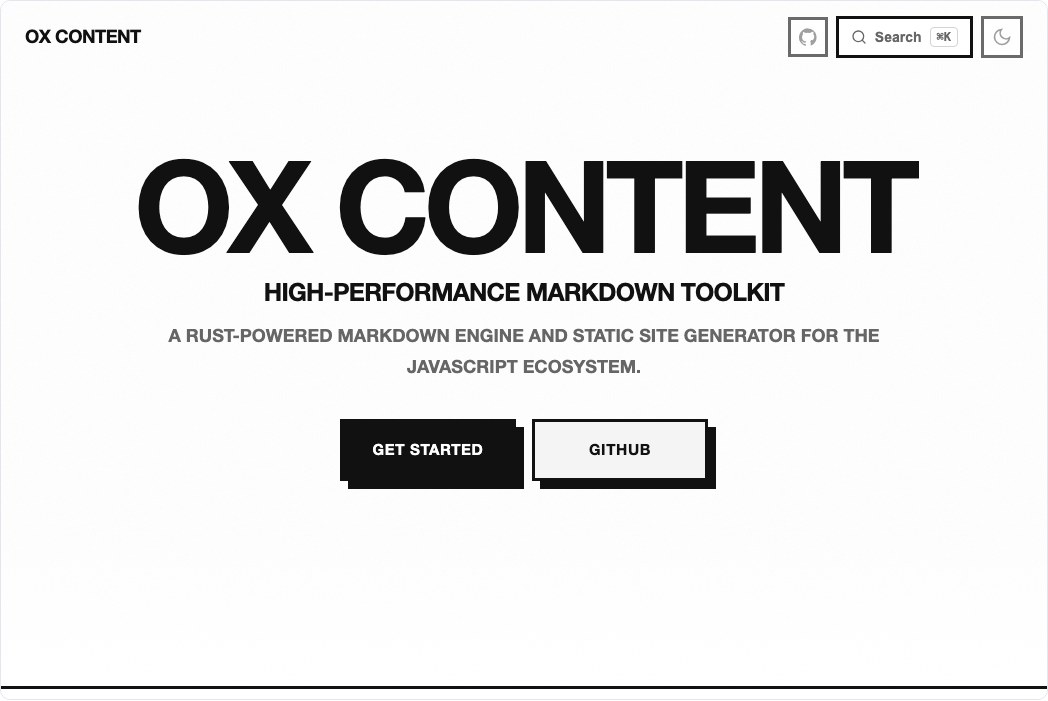
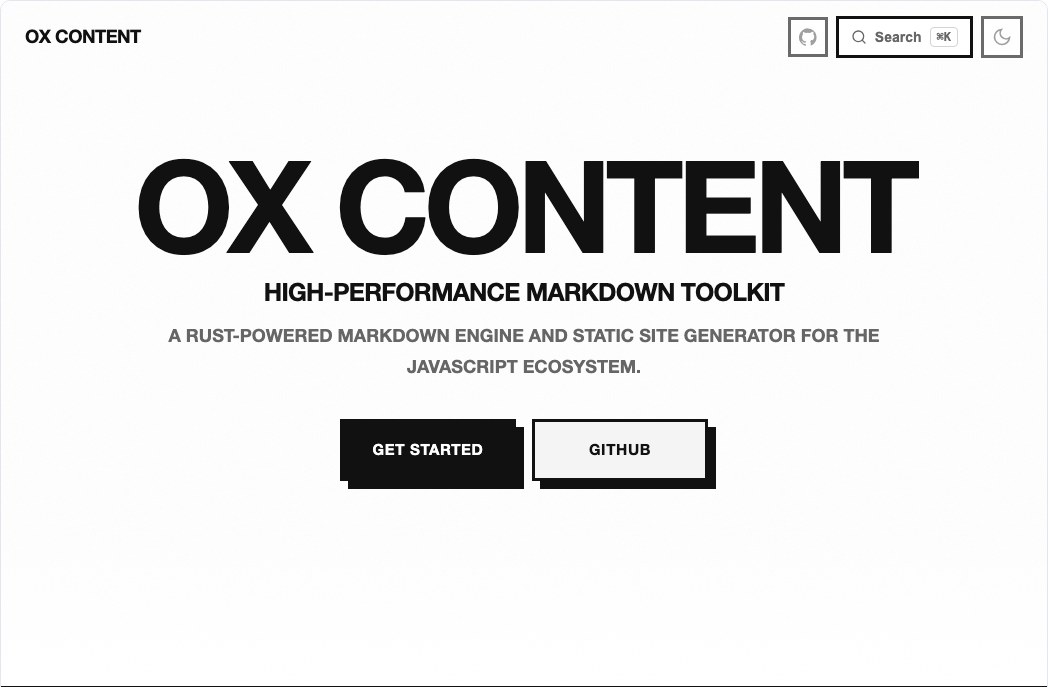
fix(themes): make Liquid Glass the iOS material, and stop the screenshots cropping mid-section
The skin was glassmorphism wearing the name: a wide tinted pane with a blur
behind it. What the iOS material actually does is float *small* controls over
content and bend what passes beneath them at the rim.

- The header is a compact capsule the article passes under, not a full-width
  bar. A pane that spans the frame is a page header wearing a blur.
- The tint drops from 62% to 26% and the blur from 20px to 12px. A heavy fill
  is what turns glass into frosted plastic, and it is the whole difference
  between this and glassmorphism.

Screenshots now clip to the hero's own bottom edge. Shooting the whole frame
left a sliver of the next section along the bottom, which reads as a cropping
accident rather than a composition.

Also fixes the gallery, which the formatter had broken: it stripped the
backslash out of an escaped `</script>`, and the resulting literal tag closed
the script the template lived in, so the page rendered blank. The terminator is
now assembled rather than written literally.

diff --git a/npm/theme/liquid-glass/src/skin.ts b/npm/theme/liquid-glass/src/skin.ts
@@ -16,9 +16,9 @@ export const css = `@property --octc-sweep{syntax:"<percentage>";inherits:false;
 42% 36% at 88% 16%,color-mix(in srgb,var(--octc-accent-c,var(--octc-color-primary)) 40%,transparent),transparent 74%
 ),radial-gradient(
 54% 44% at 68% 88%,color-mix(in srgb,var(--octc-accent-b,var(--octc-color-primary)) 34%,transparent),transparent 76%
-);--octc-lg-rim:12px;--octc-lg-tint:color-mix(in srgb,var(--octc-color-bg-alt) 62%,transparent);--octc-lg-rim-filter:blur(3px) brightness(0.96) saturate(1.9);--octc-lg-spec-hi:rgba(255,255,255,0.5);--octc-lg-spec-lo:rgba(255,255,255,0.24);--octc-lg-underlight:rgba(0,0,0,0.16)}[data-theme="dark"]{--octc-lg-tint:color-mix(in srgb,var(--octc-color-bg) 42%,transparent);--octc-lg-rim-filter:blur(3px) brightness(1.22) saturate(2.1);--octc-lg-spec-hi:rgba(255,255,255,0.34);--octc-lg-spec-lo:rgba(255,255,255,0.08);--octc-lg-underlight:rgba(0,0,0,0.5)}@media (prefers-color-scheme:dark){:root:not([data-theme="light"]){--octc-lg-tint:color-mix(in srgb,var(--octc-color-bg) 42%,transparent);--octc-lg-rim-filter:blur(3px) brightness(1.22) saturate(2.1);--octc-lg-spec-hi:rgba(255,255,255,0.34);--octc-lg-spec-lo:rgba(255,255,255,0.08);--octc-lg-underlight:rgba(0,0,0,0.5)}}body{background-image:var(--octc-lg-wallpaper);background-attachment:fixed;background-repeat:no-repeat}.header,.search-modal,.feature-card,.hero-notice,.hero-action,.search-button,.theme-toggle,.social-link,.nav-link.active,.content blockquote{position:relative;isolation:isolate;border:0;background:var(--octc-lg-tint);backdrop-filter:blur(20px) saturate(180%);-webkit-backdrop-filter:blur(20px) saturate(180%);box-shadow:0 10px 30px -14px var(--octc-lg-underlight)}.header::before,.sidebar::before,.search-modal::before,.feature-card::before,.hero-action::before,.search-button::before,.theme-toggle::before,.social-link::before,.nav-link.active::before{content:"";position:absolute;inset:0;z-index:-1;border-radius:inherit;pointer-events:none;padding:var(--octc-lg-rim);backdrop-filter:var(--octc-lg-rim-filter);-webkit-backdrop-filter:var(--octc-lg-rim-filter);-webkit-mask:linear-gradient(#000 0 0) content-box,linear-gradient(#000 0 0);mask:linear-gradient(#000 0 0) content-box,linear-gradient(#000 0 0);-webkit-mask-composite:xor;mask-composite:exclude}.header::after,.sidebar::after,.search-modal::after,.feature-card::after,.hero-action::after,.search-button::after,.theme-toggle::after,.social-link::after,.nav-link.active::after{content:"";position:absolute;inset:0;border-radius:inherit;pointer-events:none;padding:1px;background:linear-gradient(
+);--octc-lg-rim:12px;--octc-lg-tint:color-mix(in srgb,var(--octc-color-bg-alt) 26%,transparent);--octc-lg-rim-filter:blur(3px) brightness(0.96) saturate(1.9);--octc-lg-spec-hi:rgba(255,255,255,0.5);--octc-lg-spec-lo:rgba(255,255,255,0.24);--octc-lg-underlight:rgba(0,0,0,0.16)}[data-theme="dark"]{--octc-lg-tint:color-mix(in srgb,var(--octc-color-bg) 24%,transparent);--octc-lg-rim-filter:blur(3px) brightness(1.22) saturate(2.1);--octc-lg-spec-hi:rgba(255,255,255,0.34);--octc-lg-spec-lo:rgba(255,255,255,0.08);--octc-lg-underlight:rgba(0,0,0,0.5)}@media (prefers-color-scheme:dark){:root:not([data-theme="light"]){--octc-lg-tint:color-mix(in srgb,var(--octc-color-bg) 24%,transparent);--octc-lg-rim-filter:blur(3px) brightness(1.22) saturate(2.1);--octc-lg-spec-hi:rgba(255,255,255,0.34);--octc-lg-spec-lo:rgba(255,255,255,0.08);--octc-lg-underlight:rgba(0,0,0,0.5)}}body{background-image:var(--octc-lg-wallpaper);background-attachment:fixed;background-repeat:no-repeat}.header,.search-modal,.feature-card,.hero-notice,.hero-action,.search-button,.theme-toggle,.social-link,.nav-link.active,.content blockquote{position:relative;isolation:isolate;border:0;background:var(--octc-lg-tint);backdrop-filter:blur(12px) saturate(200%);-webkit-backdrop-filter:blur(12px) saturate(200%);box-shadow:0 10px 30px -14px var(--octc-lg-underlight)}.header::before,.sidebar::before,.search-modal::before,.feature-card::before,.hero-action::before,.search-button::before,.theme-toggle::before,.social-link::before,.nav-link.active::before{content:"";position:absolute;inset:0;z-index:-1;border-radius:inherit;pointer-events:none;padding:var(--octc-lg-rim);backdrop-filter:var(--octc-lg-rim-filter);-webkit-backdrop-filter:var(--octc-lg-rim-filter);-webkit-mask:linear-gradient(#000 0 0) content-box,linear-gradient(#000 0 0);mask:linear-gradient(#000 0 0) content-box,linear-gradient(#000 0 0);-webkit-mask-composite:xor;mask-composite:exclude}.header::after,.sidebar::after,.search-modal::after,.feature-card::after,.hero-action::after,.search-button::after,.theme-toggle::after,.social-link::after,.nav-link.active::after{content:"";position:absolute;inset:0;border-radius:inherit;pointer-events:none;padding:1px;background:linear-gradient(
 145deg,var(--octc-lg-spec-hi) 0%,transparent 28%,transparent 68%,var(--octc-lg-spec-lo) 100%
-);-webkit-mask:linear-gradient(#000 0 0) content-box,linear-gradient(#000 0 0);mask:linear-gradient(#000 0 0) content-box,linear-gradient(#000 0 0);-webkit-mask-composite:xor;mask-composite:exclude}.hero-action,.search-button,.theme-toggle,.social-link,.mobile-footer-btn,.search-input,.nav-link,.toc-link{border-radius:999px}.feature-card,.hero-notice,.content pre,.content blockquote,.content img,.content table{border-radius:var(--octc-lg-r)}.search-modal{border-radius:calc(var(--octc-lg-r) + 6px)}.header{--octc-lg-rim:10px;top:0.7rem;left:50%;right:auto;transform:translateX(-50%);width:min(calc(100% - 1.4rem),1180px);border-radius:999px;padding-inline:1rem;height:calc(var(--octc-header-height) - 0.7rem)}.layout{padding-top:calc(var(--octc-header-height) + 0.7rem)}.header-title{font-weight:620;letter-spacing:-0.015em}.search-button,.theme-toggle,.social-link{--octc-lg-rim:7px}.nav-link.active{--octc-lg-rim:8px}.sidebar{--octc-skin-sidebar-bg:var(--octc-lg-tint);--octc-lg-rim:10px;position:fixed;top:calc(var(--octc-header-height) + 1.1rem);bottom:1.1rem;left:0.9rem;width:calc(var(--octc-sidebar-width) - 1.2rem);border-radius:var(--octc-lg-r);border:0;padding:1rem 0.75rem;background:var(--octc-lg-tint);backdrop-filter:blur(20px) saturate(180%);-webkit-backdrop-filter:blur(20px) saturate(180%);box-shadow:0 10px 30px -14px var(--octc-lg-underlight)}.toc{border-left:0}.nav-title,.toc-title{font-size:0.7rem;letter-spacing:0.11em;text-transform:uppercase;opacity:0.62}.nav-link:not(.active):hover,.toc-link:hover{background:color-mix(in srgb,var(--octc-color-primary) 10%,transparent)}.nav-link.active{font-weight:620}.content h2{border-bottom:1px solid color-mix(in srgb,var(--octc-color-border) 32%,transparent)}.content :not(pre)>code{border-radius:8px;background:color-mix(in srgb,var(--octc-color-primary) 11%,transparent);padding:0.1em 0.42em}.content pre{border:0;box-shadow:0 14px 36px -20px var(--octc-lg-underlight)}.content blockquote{--octc-lg-rim:10px}.content table{overflow:hidden}.content th,.content td{border-color:color-mix(in srgb,var(--octc-color-border) 26%,transparent)}.content hr{height:1px;border:0;background:color-mix(in srgb,var(--octc-color-border) 45%,transparent)}.hero{background-image:radial-gradient(
+);-webkit-mask:linear-gradient(#000 0 0) content-box,linear-gradient(#000 0 0);mask:linear-gradient(#000 0 0) content-box,linear-gradient(#000 0 0);-webkit-mask-composite:xor;mask-composite:exclude}.hero-action,.search-button,.theme-toggle,.social-link,.mobile-footer-btn,.search-input,.nav-link,.toc-link{border-radius:999px}.feature-card,.hero-notice,.content pre,.content blockquote,.content img,.content table{border-radius:var(--octc-lg-r)}.search-modal{border-radius:calc(var(--octc-lg-r) + 6px)}.header{--octc-lg-rim:8px;top:0.85rem;left:50%;right:auto;transform:translateX(-50%);width:max-content;max-width:calc(100% - 1.6rem);gap:1.25rem;border-radius:999px;padding-inline:1.15rem;height:calc(var(--octc-header-height) - 1.4rem)}.layout{padding-top:calc(var(--octc-header-height) + 0.7rem)}.header-title{font-weight:620;letter-spacing:-0.015em}.search-button,.theme-toggle,.social-link{--octc-lg-rim:7px}.nav-link.active{--octc-lg-rim:8px}.sidebar{--octc-skin-sidebar-bg:var(--octc-lg-tint);--octc-lg-rim:10px;position:fixed;top:calc(var(--octc-header-height) + 1.1rem);bottom:1.1rem;left:0.9rem;width:calc(var(--octc-sidebar-width) - 1.2rem);border-radius:var(--octc-lg-r);border:0;padding:1rem 0.75rem;background:var(--octc-lg-tint);backdrop-filter:blur(20px) saturate(180%);-webkit-backdrop-filter:blur(20px) saturate(180%);box-shadow:0 10px 30px -14px var(--octc-lg-underlight)}.toc{border-left:0}.nav-title,.toc-title{font-size:0.7rem;letter-spacing:0.11em;text-transform:uppercase;opacity:0.62}.nav-link:not(.active):hover,.toc-link:hover{background:color-mix(in srgb,var(--octc-color-primary) 10%,transparent)}.nav-link.active{font-weight:620}.content h2{border-bottom:1px solid color-mix(in srgb,var(--octc-color-border) 32%,transparent)}.content :not(pre)>code{border-radius:8px;background:color-mix(in srgb,var(--octc-color-primary) 11%,transparent);padding:0.1em 0.42em}.content pre{border:0;box-shadow:0 14px 36px -20px var(--octc-lg-underlight)}.content blockquote{--octc-lg-rim:10px}.content table{overflow:hidden}.content th,.content td{border-color:color-mix(in srgb,var(--octc-color-border) 26%,transparent)}.content hr{height:1px;border:0;background:color-mix(in srgb,var(--octc-color-border) 45%,transparent)}.hero{background-image:radial-gradient(
 46% 40% at 16% 12%,color-mix(in srgb,var(--octc-accent-a,var(--octc-color-primary)) 62%,transparent),transparent 70%
 ),radial-gradient(
 42% 38% at 84% 22%,color-mix(in srgb,var(--octc-accent-c,var(--octc-color-primary)) 54%,transparent),transparent 72%

diff --git a/scripts/theme-skins/skins/liquid-glass/01-material.css b/scripts/theme-skins/skins/liquid-glass/01-material.css
@@ -43,7 +43,10 @@
   --octc-lg-rim: 12px;
   /* Toward bg-alt, not bg: on a white page a pane tinted with white is
    * invisible, and every surface collapses into one blown-out field. */
-  --octc-lg-tint: color-mix(in srgb, var(--octc-color-bg-alt) 62%, transparent);
+  /* Thin. The material's job is to let content through and bend it at the rim;
+   * a heavy fill turns it into frosted plastic, which is the whole difference
+   * between this and glassmorphism. */
+  --octc-lg-tint: color-mix(in srgb, var(--octc-color-bg-alt) 26%, transparent);
   --octc-lg-rim-filter: blur(3px) brightness(0.96) saturate(1.9);
   --octc-lg-spec-hi: rgba(255, 255, 255, 0.5);
   --octc-lg-spec-lo: rgba(255, 255, 255, 0.24);
@@ -51,7 +54,7 @@
 }
 
 [data-theme="dark"] {
-  --octc-lg-tint: color-mix(in srgb, var(--octc-color-bg) 42%, transparent);
+  --octc-lg-tint: color-mix(in srgb, var(--octc-color-bg) 24%, transparent);
   /* In the dark the rim does brighten — there the backdrop is below it. */
   --octc-lg-rim-filter: blur(3px) brightness(1.22) saturate(2.1);
   --octc-lg-spec-hi: rgba(255, 255, 255, 0.34);
@@ -61,7 +64,7 @@
 
 @media (prefers-color-scheme: dark) {
   :root:not([data-theme="light"]) {
-    --octc-lg-tint: color-mix(in srgb, var(--octc-color-bg) 42%, transparent);
+    --octc-lg-tint: color-mix(in srgb, var(--octc-color-bg) 24%, transparent);
     --octc-lg-rim-filter: blur(3px) brightness(1.22) saturate(2.1);
     --octc-lg-spec-hi: rgba(255, 255, 255, 0.34);
     --octc-lg-spec-lo: rgba(255, 255, 255, 0.08);
@@ -91,8 +94,8 @@ body {
   isolation: isolate;
   border: 0;
   background: var(--octc-lg-tint);
-  backdrop-filter: blur(20px) saturate(180%);
-  -webkit-backdrop-filter: blur(20px) saturate(180%);
+  backdrop-filter: blur(12px) saturate(200%);
+  -webkit-backdrop-filter: blur(12px) saturate(200%);
   box-shadow: 0 10px 30px -14px var(--octc-lg-underlight);
 }
 

diff --git a/scripts/theme-gallery.js b/scripts/theme-gallery.js
@@ -109,6 +109,11 @@
       });
     }`;
 
+  // Assembled rather than written literally: a formatter will happily strip the
+  // backslash out of `<\/script>`, and the resulting literal tag closes the
+  // script this template lives in.
+  const END = "</" + "script>";
+
   function srcdoc(skin, scheme) {
     // The preview runs in its own document so the base stylesheet's `body`,
     // `:root` and fixed-position rules behave exactly as on a built page.
@@ -116,7 +121,7 @@
 <meta name="viewport" content="width=device-width,initial-scale=1">
 ${skin.head || ""}<style>${DATA.base}</style><style>${scheme.css}</style><style>${skin.css}</style>
 <style>.layout{padding-top:var(--octc-header-height)}.hero{min-height:calc(100vh - var(--octc-header-height))}</style>
-</head><body class="${state.page === "landing" ? "entry-page" : ""}">${DATA[state.page]}<script>${TOGGLE_SCRIPT}</script>${skin.js ? `<script>${skin.js}</script>` : ""}</body></html>`;
+</head><body class="${state.page === "landing" ? "entry-page" : ""}">${DATA[state.page]}<script>${TOGGLE_SCRIPT}${END}${skin.js ? `<script>${skin.js}${END}` : ""}</body></html>`;
   }
 
   window.addEventListener("message", (event) => {

diff --git a/scripts/theme-skins/skins/liquid-glass/02-surfaces.css b/scripts/theme-skins/skins/liquid-glass/02-surfaces.css
@@ -30,18 +30,21 @@
   border-radius: calc(var(--octc-lg-r) + 6px);
 }
 
-/* The header floats as its own capsule rather than spanning as a bar — the
- * material is meant to sit above the content, not be part of the frame. */
+/* iOS floats a compact bar over the content rather than spanning the frame with
+ * one. A full-width pane is a page header wearing a blur; a short capsule the
+ * article passes beneath is the material doing its job. */
 .header {
-  --octc-lg-rim: 10px;
-  top: 0.7rem;
+  --octc-lg-rim: 8px;
+  top: 0.85rem;
   left: 50%;
   right: auto;
   transform: translateX(-50%);
-  width: min(calc(100% - 1.4rem), 1180px);
+  width: max-content;
+  max-width: calc(100% - 1.6rem);
+  gap: 1.25rem;
   border-radius: 999px;
-  padding-inline: 1rem;
-  height: calc(var(--octc-header-height) - 0.7rem);
+  padding-inline: 1.15rem;
+  height: calc(var(--octc-header-height) - 1.4rem);
 }
 .layout {
   padding-top: calc(var(--octc-header-height) + 0.7rem);
